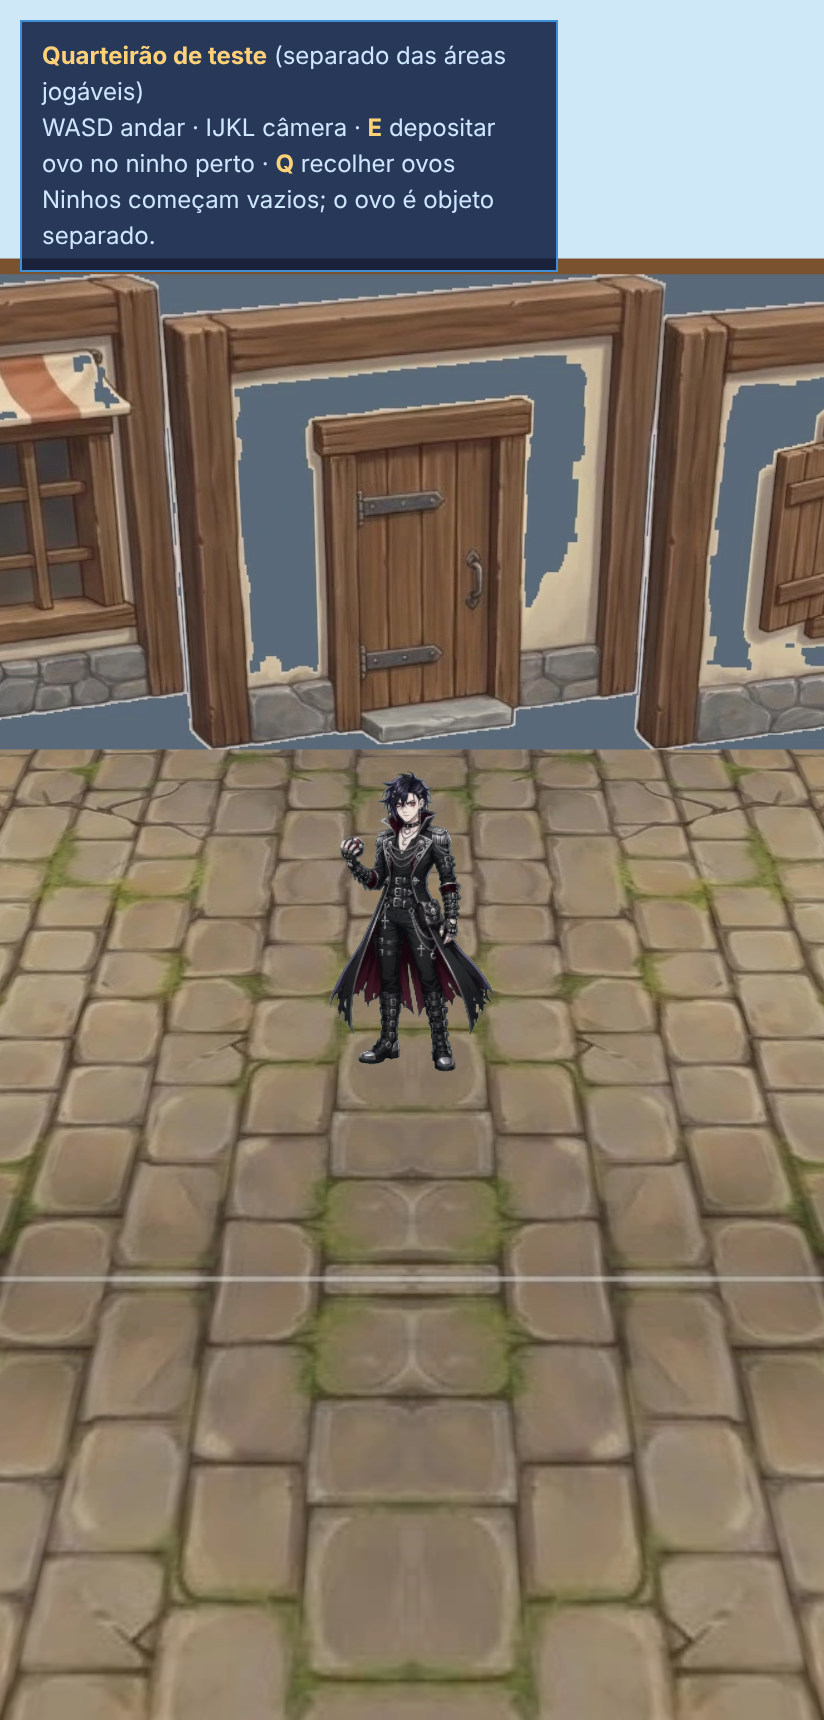
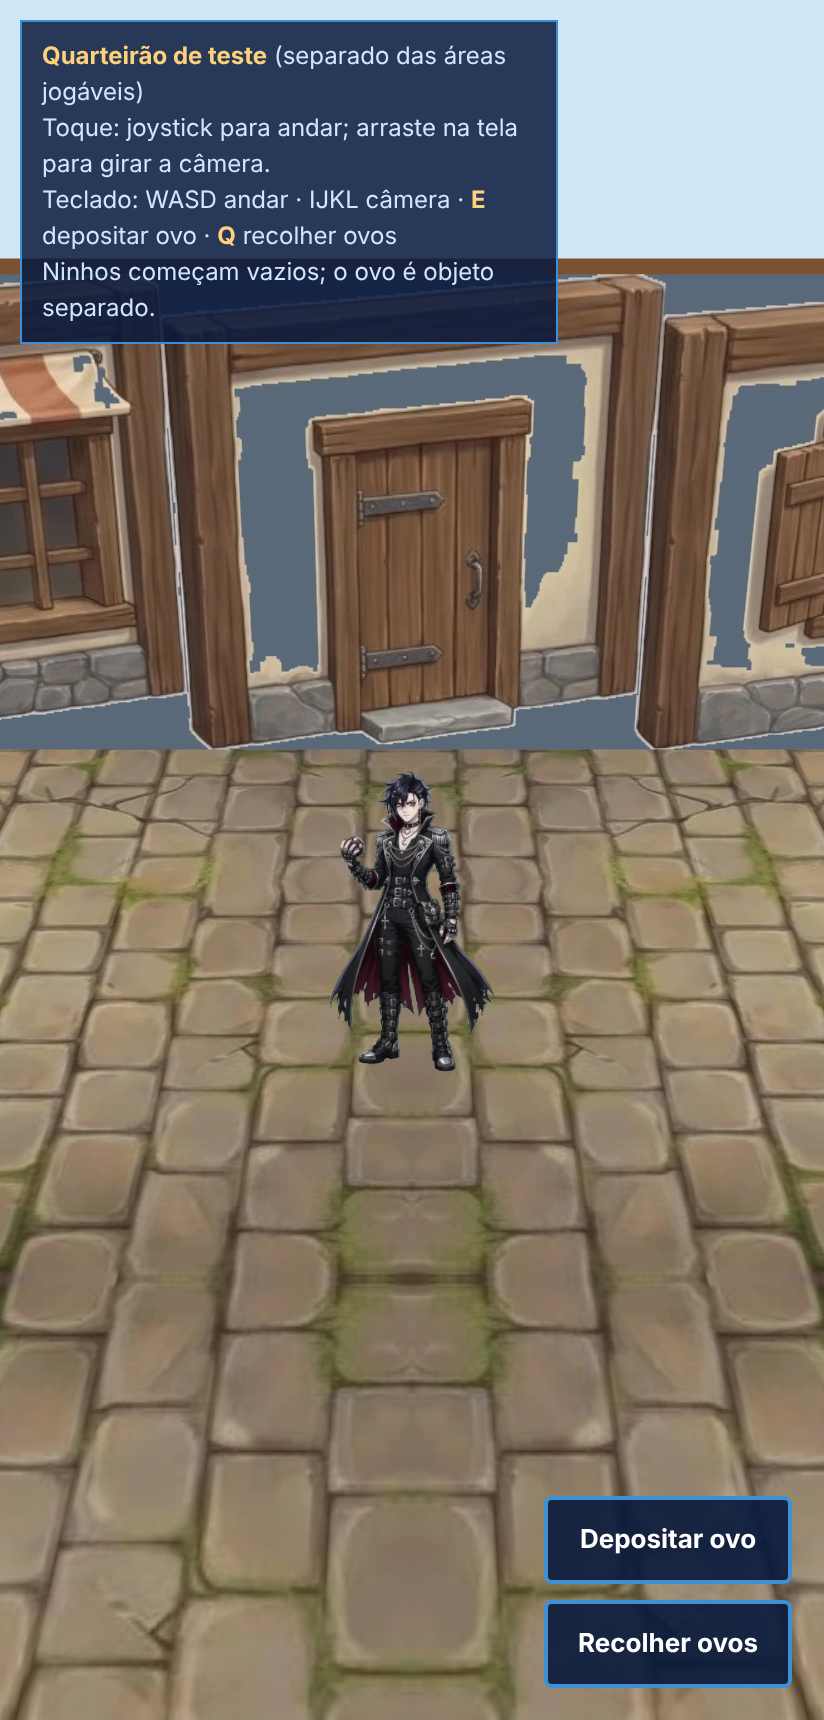
Quarteirão de teste: jogável no celular, com câmera suave
- Joystick de toque (mesmo controle do jogo principal) e arrastar na tela para girar a câmera.
- Câmera suavizada: ângulo e posição seguem com amortecimento; uma parede encurta a distância (colisão de câmera do jogo principal).
- Movimento com deslizar pelas paredes (resolverMovimento), usando as colisões do quarteirão.
- Botões Depositar ovo e Recolher ovos para o toque; teclado continua funcionando.
- Vistas de conferência (?visao=topo, geral, portao, taverna, loja) mantidas.

Limitações: o reboco das fachadas ainda parece azulado em algumas áreas da renderização; o arquivo da textura está correto (bege), a causa não foi encontrada. As peças de chão ainda não foram recosturadas com a borda aparada.

Claude-Session: https://claude.ai/code/session_01CGVLTDGSSxihYWLuUwRgVi

diff --git a/confusion/web/teste-quarteirao/quarteirao.js b/confusion/web/teste-quarteirao/quarteirao.js
@@ -3,6 +3,8 @@
 // Chão: grama e pedra espelhadas (única emenda exata com estas peças); estradas com as peças da 1000354504, giradas
 // para encaixar pelo meio de cada lado. Objetos fixos: planos cruzados (não giram com a câmera). Fachadas: volumes.
 import * as THREE from 'three';
+import { vetorJoystick } from '../explorar3d/controles.js';
+import { resolverMovimento, fracaoLivreCamera } from '../explorar3d/colisao.js';
 
 const A = 'assets/';
 const S = 9;                                   // lado de uma célula, em unidades do mundo
@@ -235,13 +237,18 @@ const jogador = new THREE.Group();
 jogador.add(azazel);
 cena.add(jogador);
 
-// ---- entrada e movimento ----
+// ---- entrada: teclado, joystick de toque e arrastar para girar a câmera ----
 const teclas = new Set();
 const ALVO_ALTURA = ALTURA_PERSONAGEM * 0.8;
 const estado = { x: cx(1), z: cz(2), yaw: 0, pitch: 0.5 };
 if (VISAO === 'portao') { estado.x = 0; estado.z = cz(4); estado.yaw = -Math.PI / 2; }
 if (VISAO === 'taverna') { estado.x = -11; estado.z = (cz(0) + cz(1)) / 2; estado.yaw = Math.PI / 2; }
 if (VISAO === 'loja') { estado.x = 16; estado.z = (cz(0) + cz(1)) / 2; estado.yaw = -Math.PI / 2; }
+// câmera suavizada: o ângulo e a posição seguem com amortecimento
+const cam = { yaw: estado.yaw, pitch: estado.pitch, pos: null };
+// colisões em caixas (AABB) para o movimento e para a câmera, com a mesma lógica do jogo principal
+const caixasAABB = colisoes.map((b) => ({ min: { x: b.x0, y: 0, z: b.z0 }, max: { x: b.x1, y: 6, z: b.z1 } }));
+
 window.addEventListener('keydown', (e) => {
   if (['ArrowUp', 'ArrowDown', 'ArrowLeft', 'ArrowRight', 'Space'].includes(e.code)) e.preventDefault();
   teclas.add(e.code);
@@ -251,26 +258,53 @@ window.addEventListener('keydown', (e) => {
 window.addEventListener('keyup', (e) => teclas.delete(e.code));
 const pressionada = (...codigos) => codigos.some((c) => teclas.has(c));
 
-function empurra(x, z, r) {
-  for (const b of colisoes) {
-    const px = Math.max(b.x0, Math.min(x, b.x1));
-    const pz = Math.max(b.z0, Math.min(z, b.z1));
-    const dx = x - px, dz = z - pz;
-    const d2 = dx * dx + dz * dz;
-    if (d2 >= r * r) continue;
-    if (d2 > 1e-10) {
-      const d = Math.sqrt(d2);
-      x = px + (dx / d) * r;
-      z = pz + (dz / d) * r;
-    } else {
-      // dentro do retângulo: sai pelo lado mais próximo
-      const saidas = [[b.x0 - r - x, 0], [b.x1 + r - x, 0], [0, b.z0 - r - z], [0, b.z1 + r - z]];
-      const [sx, sz] = saidas.reduce((m, s) => (Math.abs(s[0] + s[1]) < Math.abs(m[0] + m[1]) ? s : m));
-      x += sx; z += sz;
-    }
-  }
-  return [x, z];
+// joystick de toque (mesmo controle do jogo principal)
+const joy = { x: 0, z: 0 };
+const joyEl = document.getElementById('joy');
+const joyKnob = document.getElementById('joy-knob');
+let joyDedo = null;
+function joyAtualizar(e) {
+  const r = joyEl.getBoundingClientRect();
+  const dx = e.clientX - (r.left + r.width / 2);
+  const dy = e.clientY - (r.top + r.height / 2);
+  const v = vetorJoystick(dx, dy, r.width / 2);
+  joy.x = v.x;
+  joy.z = v.z;
+  // o botão do joystick acompanha o dedo, limitado ao círculo
+  const d = Math.hypot(dx, dy) || 1;
+  const lim = Math.min(d, r.width * 0.3);
+  joyKnob.style.transform = `translate(calc(-50% + ${(dx / d) * lim}px), calc(-50% + ${(dy / d) * lim}px))`;
 }
+function joyFim() {
+  joyDedo = null;
+  joy.x = 0;
+  joy.z = 0;
+  joyKnob.style.transform = 'translate(-50%, -50%)';
+}
+joyEl.addEventListener('pointerdown', (e) => { joyDedo = e.pointerId; joyEl.setPointerCapture(e.pointerId); joyAtualizar(e); e.preventDefault(); });
+joyEl.addEventListener('pointermove', (e) => { if (e.pointerId === joyDedo) joyAtualizar(e); });
+joyEl.addEventListener('pointerup', joyFim);
+joyEl.addEventListener('pointercancel', joyFim);
+
+// arrastar na tela para girar a câmera (igual ao jogo principal)
+let arrastando = null;
+canvas.addEventListener('pointerdown', (e) => {
+  arrastando = { id: e.pointerId, x: e.clientX, y: e.clientY };
+  canvas.setPointerCapture(e.pointerId);
+});
+canvas.addEventListener('pointermove', (e) => {
+  if (!arrastando || e.pointerId !== arrastando.id) return;
+  estado.yaw -= (e.clientX - arrastando.x) * 0.006;
+  estado.pitch = Math.max(0.15, Math.min(1.25, estado.pitch + (e.clientY - arrastando.y) * 0.004));
+  arrastando.x = e.clientX;
+  arrastando.y = e.clientY;
+});
+const soltarArraste = () => { arrastando = null; };
+canvas.addEventListener('pointerup', soltarArraste);
+canvas.addEventListener('pointercancel', soltarArraste);
+
+document.getElementById('btn-ovo').addEventListener('click', () => depositar());
+document.getElementById('btn-recolher').addEventListener('click', () => recolherOvos());
 
 function depositar() {
   let melhor = -1, dist = 3.2;
@@ -283,34 +317,38 @@ function depositar() {
 }
 function recolherOvos() { ovos.forEach((o) => { o.visible = false; }); }
 
+const diferencaAngulo = (a, b) => ((b - a + Math.PI) % (2 * Math.PI) + 2 * Math.PI) % (2 * Math.PI) - Math.PI;
+
 let ultimo = performance.now();
 function quadro(agora) {
   const dt = Math.min(0.05, (agora - ultimo) / 1000);
   ultimo = agora;
+
   if (VISAO === 'jogo') {
     if (pressionada('KeyJ')) estado.yaw -= 2.2 * dt;
     if (pressionada('KeyL')) estado.yaw += 2.2 * dt;
     if (pressionada('KeyI')) estado.pitch = Math.min(1.25, estado.pitch + 1.2 * dt);
     if (pressionada('KeyK')) estado.pitch = Math.max(0.15, estado.pitch - 1.2 * dt);
-    let ix = 0, iz = 0;
+    let ix = joy.x, iz = joy.z;
     if (pressionada('KeyW', 'ArrowUp')) iz += 1;
     if (pressionada('KeyS', 'ArrowDown')) iz -= 1;
     if (pressionada('KeyD', 'ArrowRight')) ix += 1;
     if (pressionada('KeyA', 'ArrowLeft')) ix -= 1;
+    const forca = Math.min(1, Math.hypot(ix, iz));
     const frente = { x: -Math.sin(estado.yaw), z: -Math.cos(estado.yaw) };
     const direita = { x: Math.cos(estado.yaw), z: -Math.sin(estado.yaw) };
     let dx = frente.x * iz + direita.x * ix;
     let dz = frente.z * iz + direita.z * ix;
     const n = Math.hypot(dx, dz);
-    if (n > 0) {
-      dx = (dx / n) * VELOCIDADE * dt;
-      dz = (dz / n) * VELOCIDADE * dt;
-      const [nx, nz] = empurra(estado.x + dx, estado.z + dz, RAIO);
-      estado.x = nx;
-      estado.z = nz;
+    if (n > 1e-6 && forca > 0) {
+      dx = (dx / n) * forca * VELOCIDADE * dt;
+      dz = (dz / n) * forca * VELOCIDADE * dt;
+      const p = resolverMovimento({ x: estado.x, z: estado.z }, dx, dz, RAIO, caixasAABB);
+      estado.x = p.x;
+      estado.z = p.z;
     }
-    estado.x = Math.max(FX0 - 60, Math.min(FX1 + 60, estado.x));
   }
+
   jogador.position.set(estado.x, 0, estado.z);
   jogador.quaternion.copy(camera.quaternion);   // o personagem só fica de frente para a câmera (nunca fino)
 
@@ -323,10 +361,27 @@ function quadro(agora) {
     camera.lookAt(0, 0, -2);
     camera.fov = 40;
   } else {
+    // ângulos seguem o alvo com amortecimento; a posição da câmera também, e uma parede encurta a distância
+    const k = 1 - Math.exp(-dt * 10);
+    cam.yaw += diferencaAngulo(cam.yaw, estado.yaw) * k;
+    cam.pitch += (estado.pitch - cam.pitch) * k;
+    const alvo = { x: estado.x, y: ALVO_ALTURA, z: estado.z };
     const d = window.innerWidth < 600 ? 13 : 11;   // mesma distância do jogo
-    const h = d * Math.cos(estado.pitch), v = d * Math.sin(estado.pitch);
-    camera.position.set(estado.x + Math.sin(estado.yaw) * h, ALVO_ALTURA + v, estado.z + Math.cos(estado.yaw) * h);
-    camera.lookAt(estado.x, ALVO_ALTURA, estado.z);
+    const h = d * Math.cos(cam.pitch), v = d * Math.sin(cam.pitch);
+    const desejada = { x: alvo.x + Math.sin(cam.yaw) * h, y: alvo.y + v, z: alvo.z + Math.cos(cam.yaw) * h };
+    const f = fracaoLivreCamera(alvo, desejada, caixasAABB);
+    const destino = {
+      x: alvo.x + (desejada.x - alvo.x) * f,
+      y: alvo.y + (desejada.y - alvo.y) * f,
+      z: alvo.z + (desejada.z - alvo.z) * f,
+    };
+    if (!cam.pos) cam.pos = { ...destino };
+    const k2 = 1 - Math.exp(-dt * 14);
+    cam.pos.x += (destino.x - cam.pos.x) * k2;
+    cam.pos.y += (destino.y - cam.pos.y) * k2;
+    cam.pos.z += (destino.z - cam.pos.z) * k2;
+    camera.position.set(cam.pos.x, cam.pos.y, cam.pos.z);
+    camera.lookAt(alvo.x, alvo.y, alvo.z);
     camera.fov = 55;
   }
   camera.updateProjectionMatrix();
@@ -340,6 +395,7 @@ window.addEventListener('resize', () => {
 // para os testes: posição do personagem e estado dos ovos
 window.quarteirao = {
   estado: () => ({ x: estado.x, z: estado.z, yaw: estado.yaw, pitch: estado.pitch }),
+  camera: () => ({ x: camera.position.x, y: camera.position.y, z: camera.position.z }),
   ovos: () => ovos.map((o) => o.visible),
   colisoes: () => colisoes.length,
   mover: (x, z, yaw) => { estado.x = x; estado.z = z; if (yaw !== undefined) estado.yaw = yaw; },

diff --git a/confusion/web/teste-quarteirao/index.html b/confusion/web/teste-quarteirao/index.html
@@ -11,6 +11,14 @@
   #ajuda { position: fixed; left: 10px; top: 10px; background: rgba(9, 25, 60, .85); color: #cfe8ff; padding: 8px 10px;
            font-size: 12px; line-height: 1.5; border: 1px solid #3f8fd6; max-width: 60vw; }
   #ajuda b { color: #ffd27a; }
+  #joy { position: fixed; left: 16px; bottom: 16px; width: 124px; height: 124px; box-sizing: border-box; border-radius: 50%;
+         background: rgba(10, 28, 60, .55); border: 2px solid #3f8fd6; touch-action: none; user-select: none; display: none; }
+  #joy-knob { position: absolute; left: 50%; top: 50%; width: 52px; height: 52px; border-radius: 50%; background: #cfe8ff;
+              transform: translate(-50%, -50%); pointer-events: none; }
+  @media (pointer: coarse) { #joy { display: block; } }
+  #acoes { position: fixed; right: 16px; bottom: 16px; display: flex; flex-direction: column; gap: 8px; }
+  #acoes button { min-width: 124px; height: 44px; border: 2px solid #3f8fd6; background: rgba(9, 25, 60, .9); color: #fff;
+                  font: 700 13px system-ui, sans-serif; border-radius: 4px; touch-action: manipulation; }
 </style>
 <script type="importmap">{"imports": {"three": "../vendor/three.module.min.js"}}</script>
 </head>
@@ -18,8 +26,14 @@
 <canvas id="cena"></canvas>
 <div id="ajuda">
   <b>Quarteirão de teste</b> (separado das áreas jogáveis)<br>
-  WASD andar · IJKL câmera · <b>E</b> depositar ovo no ninho perto · <b>Q</b> recolher ovos<br>
+  Toque: joystick para andar; arraste na tela para girar a câmera.<br>
+  Teclado: WASD andar · IJKL câmera · <b>E</b> depositar ovo · <b>Q</b> recolher ovos<br>
   Ninhos começam vazios; o ovo é objeto separado.
+</div>
+<div id="joy" aria-label="Joystick para mover"><div id="joy-knob"></div></div>
+<div id="acoes">
+  <button id="btn-ovo" type="button">Depositar ovo</button>
+  <button id="btn-recolher" type="button">Recolher ovos</button>
 </div>
 <script type="module" src="./quarteirao.js"></script>
 </body>
